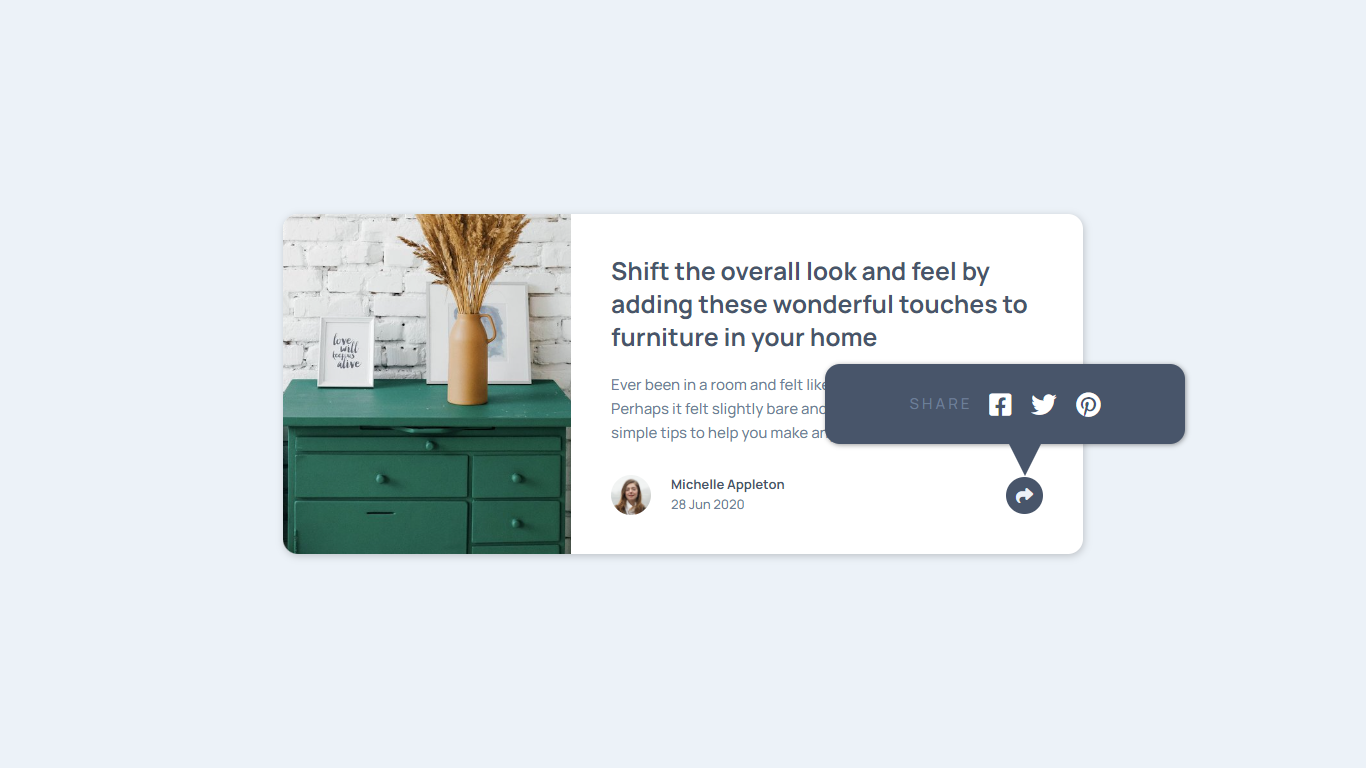
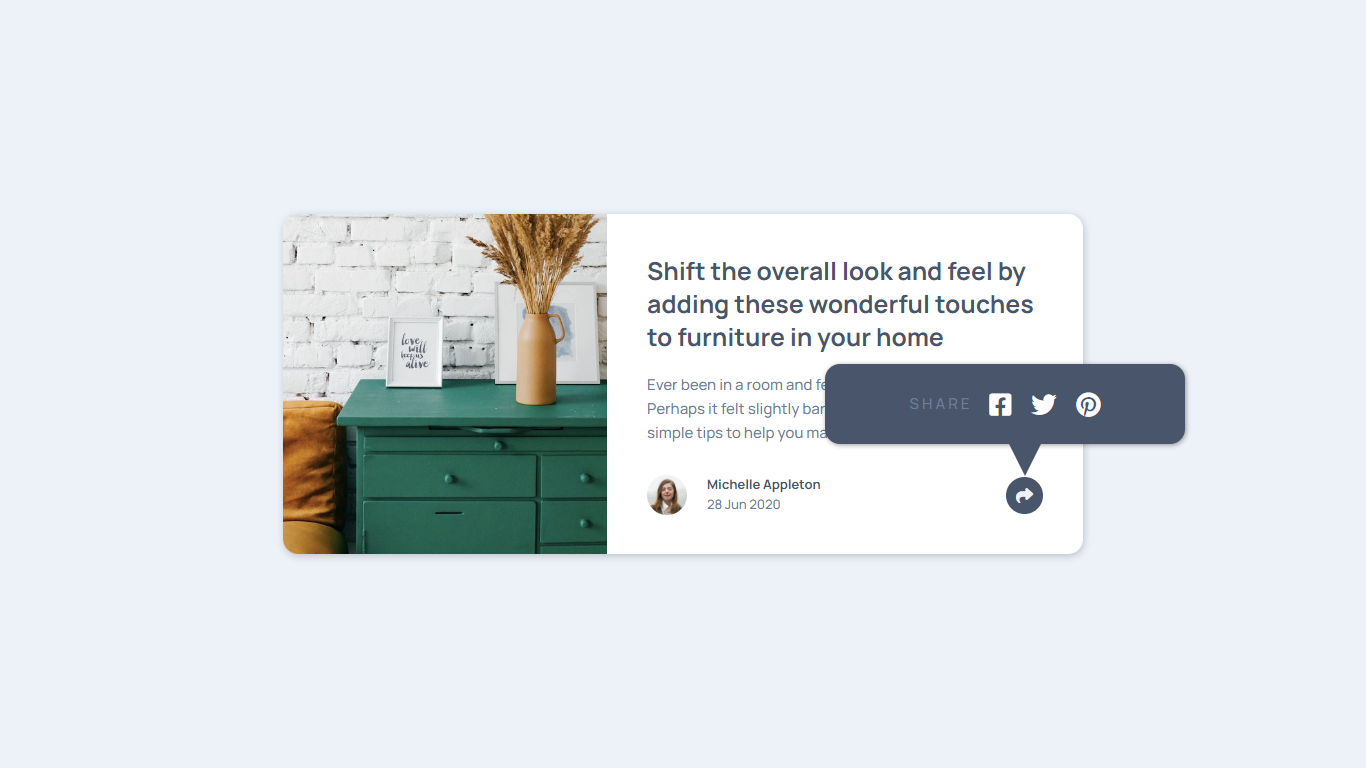
erro corrigido

Changed region(s): [[0.1845, 0.2812, 0.7687, 0.7188]]

diff --git a/estilos/desktop.css b/estilos/desktop.css
@@ -10,7 +10,7 @@ main{
 }
 
 .image{
-       width: 40%;
+       width: 45%;
        height: 100% !important;
        border-radius: 15px 0px 0px 15px;
 }
@@ -21,7 +21,7 @@ section{
     gap: 0px;
 
     padding: 40px;
-    width: 60%;
+    width: 55%;
 }
 
 
@@ -57,7 +57,7 @@ p{
     top: 130px;
     box-shadow: 1px 1px 10px rgba(0, 0, 0, 0.219);
 
-    display: flex;
+    display: none;
     width: 300px !important;
     box-shadow: 1px 1px 5px rgba(0, 0, 0, 0.39);
     

diff --git a/estilos/mobile.css b/estilos/mobile.css
@@ -64,9 +64,8 @@ section p{
     background-image: url(../images/drawers.jpg);
     background-repeat: no-repeat;
     background-size: cover;
-    background-position: center center;
+
     height: 200px;
-    
 }
 
 section{
